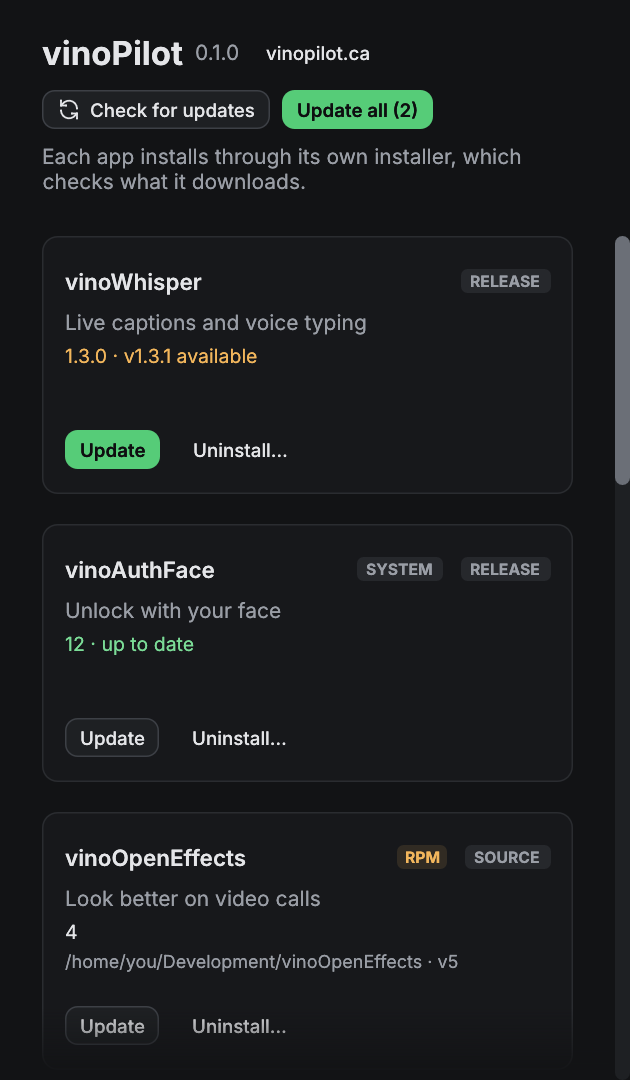
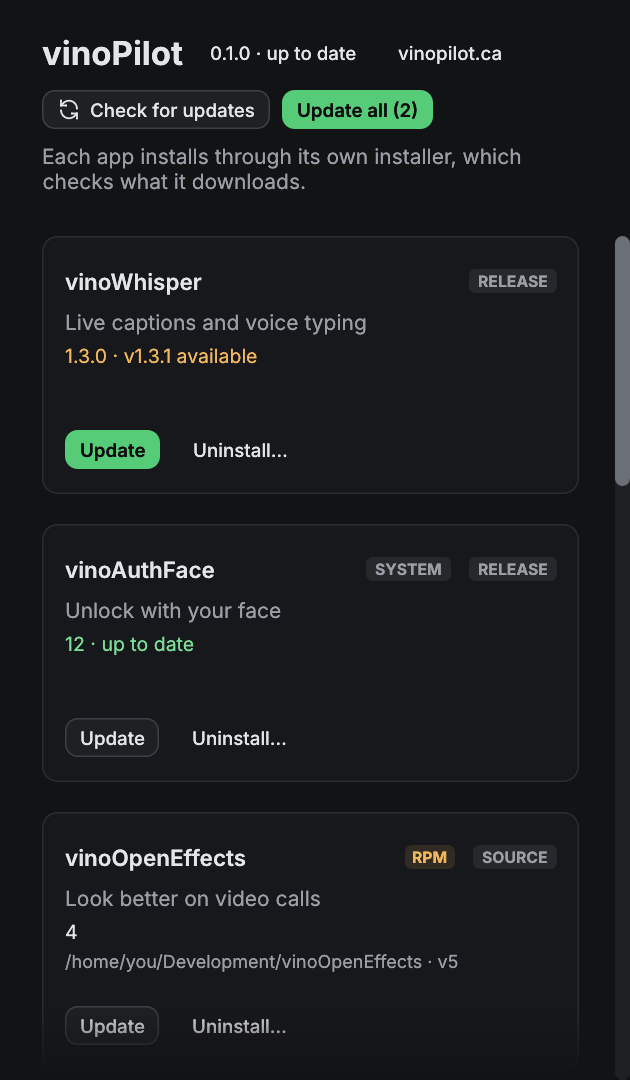
feat(gui): vinoPilot's version is a button that checks, updates and restarts it
The header showed the version as text, and Update vinoPilot only appeared
after Check for updates. Now the version itself checks, then becomes the
update, then Restart into the new window once it's installed.

diff --git a/crates/gui/src/lib.rs b/crates/gui/src/lib.rs
@@ -188,8 +188,7 @@ impl Pilot {
         let narrow = ui.available_width() < 620.0;
         ui.horizontal(|ui| {
             widgets::title(ui, "vinoPilot");
-            widgets::muted(ui, VERSION);
-            self.self_update(ui);
+            self.version_button(ui);
             if ui
                 .add(Button::ghost(vino_ui::family::SITE_LABEL).small())
                 .on_hover_text(vino_ui::family::SITE)
@@ -214,27 +213,77 @@ impl Pilot {
         ui.add_space(6.0);
     }
 
-    /// "Update vinoPilot to vX" once a check finds one, through the same
-    /// steps as the other components, for however vinoPilot is installed.
-    fn self_update(&mut self, ui: &mut egui::Ui) {
-        let Update::Available { to } = self.update(Id::Pilot) else {
-            return;
-        };
-        let Some(installed) = self.local.get(&Id::Pilot).and_then(|l| l.installed.clone()) else {
-            return;
-        };
+    /// The window's version as a button: it checks for a newer vinoPilot,
+    /// then updates it (through the same steps as the cards, for however it's
+    /// installed), then restarts into the new one.
+    fn version_button(&mut self, ui: &mut egui::Ui) {
         let ctx = ui.ctx().clone();
-        let clicked = ui
-            .add_enabled(
-                !self.busy(),
-                Button::primary(format!("Update vinoPilot to {to}")).small(),
-            )
-            .on_hover_text("Restart vinoPilot afterwards to run the new version")
-            .clicked();
-        if clicked {
-            self.queue.clear();
-            self.start(&ctx, Id::Pilot, installed.channel, Action::Update);
+        let busy = self.busy();
+        let installed = self.local.get(&Id::Pilot).and_then(|l| l.installed.clone());
+        if let Some(newer) = self.updated_to(installed.as_ref()) {
+            if ui
+                .add(Button::primary(format!("Restart into {newer}")).small())
+                .on_hover_text(format!(
+                    "vinoPilot {newer} is installed; this window is {VERSION}"
+                ))
+                .clicked()
+            {
+                restart(&ctx);
+            }
+            return;
         }
+        if self.checking.is_some() {
+            ui.add_enabled(
+                false,
+                Button::ghost(format!("{VERSION} · checking…")).small(),
+            );
+            return;
+        }
+        let how = installed.as_ref().map_or_else(
+            || "This window isn't an installed vinoPilot".to_string(),
+            |i| format!("Installed from {}", i.channel.label(Id::Pilot)),
+        );
+        match (self.update(Id::Pilot), installed) {
+            (Update::Available { to }, Some(installed)) => {
+                if ui
+                    .add_enabled(
+                        !busy,
+                        Button::primary(format!("{VERSION} · update to {to}")).small(),
+                    )
+                    .on_hover_text(format!("Update vinoPilot to {to}. {how}."))
+                    .clicked()
+                {
+                    self.queue.clear();
+                    self.start(&ctx, Id::Pilot, installed.channel, Action::Update);
+                }
+            }
+            (update, _) => {
+                let (label, hover) = match update {
+                    Update::UpToDate => (format!("{VERSION} · up to date"), "Check again".into()),
+                    Update::Unknown { reason: Some(why) } => {
+                        (VERSION.to_string(), format!("{why}. Check again"))
+                    }
+                    _ => (VERSION.to_string(), "Check for a newer vinoPilot".into()),
+                };
+                if ui
+                    .add(Button::ghost(label).small())
+                    .on_hover_text(format!("{hover}. {how}."))
+                    .clicked()
+                {
+                    self.check(&ctx);
+                }
+            }
+        }
+    }
+
+    /// The version vinoPilot's own update just installed, if it isn't this
+    /// window's.
+    fn updated_to(&self, installed: Option<&Installed>) -> Option<String> {
+        let job = self.job.as_ref()?;
+        let done =
+            job.id == Id::Pilot && job.action == Action::Update && job.outcome() == Outcome::Done;
+        let version = installed?.version.clone()?;
+        (done && self.scanning.is_none() && version != VERSION).then_some(version)
     }
 
     /// Check for updates and Update all. In a right-to-left layout the
@@ -637,6 +686,14 @@ fn status_line(ui: &mut egui::Ui, id: Id, local: &Local, update: &Update, lookin
     let shown = ui.add(egui::Label::new(RichText::new(text).size(13.0).color(color)).truncate());
     if id == Id::Pilot && version != VERSION {
         shown.on_hover_text(format!("This window is {VERSION}"));
+    }
+}
+
+/// Starts the installed window and closes this one.
+fn restart(ctx: &egui::Context) {
+    match vinopilot_core::command("vinopilot-gui").spawn() {
+        Ok(_) => ctx.send_viewport_cmd(egui::ViewportCommand::Close),
+        Err(e) => eprintln!("vinopilot: couldn't start the new vinopilot-gui: {e}"),
     }
 }
 

diff --git a/crates/gui/tests/self_update.rs b/crates/gui/tests/self_update.rs
@@ -1,0 +1,71 @@
+//! The header's version button: plain until a check, then the update.
+
+use std::collections::HashMap;
+
+use egui_kittest::Harness;
+use egui_kittest::kittest::Queryable;
+use vino_ui::theme;
+use vinopilot_core::Config;
+use vinopilot_core::catalog::{Channel, Id};
+use vinopilot_core::detect::{Installed, Local};
+use vinopilot_core::remote::Latest;
+use vinopilot_gui::{Pilot, VERSION};
+
+fn header(latest: HashMap<Id, Latest>) -> Harness<'static, (Pilot, bool)> {
+    let local = HashMap::from([(
+        Id::Pilot,
+        Local {
+            installed: Some(Installed {
+                channel: Channel::Release,
+                version: Some(VERSION.into()),
+            }),
+            ..Default::default()
+        },
+    )]);
+    let config = Config {
+        source_root: "/nowhere".into(),
+    };
+    let mut h = Harness::builder()
+        .with_size((1000.0, 720.0))
+        .build_ui_state(
+            |ui, (pilot, styled): &mut (Pilot, bool)| {
+                if !*styled {
+                    theme::apply(ui.ctx());
+                    *styled = true;
+                }
+                pilot.ui(ui);
+            },
+            (Pilot::with(config, local, latest), false),
+        );
+    h.run();
+    h
+}
+
+#[test]
+fn the_version_is_a_button_before_any_check() {
+    header(HashMap::new()).get_by_label(VERSION);
+}
+
+#[test]
+fn a_newer_release_turns_it_into_the_update() {
+    let latest = HashMap::from([(
+        Id::Pilot,
+        Latest {
+            release: Some(Ok("v99.0.0".into())),
+            ..Default::default()
+        },
+    )]);
+    header(latest).get_by_label(&format!("{VERSION} · update to v99.0.0"));
+}
+
+#[test]
+fn an_up_to_date_check_says_so() {
+    let latest = HashMap::from([(
+        Id::Pilot,
+        Latest {
+            release: Some(Ok(format!("v{VERSION}"))),
+            ..Default::default()
+        },
+    )]);
+    header(latest).get_by_label(&format!("{VERSION} · up to date"));
+}

diff --git a/README.md b/README.md
@@ -48,7 +48,7 @@ x86_64 only for the release binaries, same as the apps it installs.
 
 ## The window
 
-Nine cards, three by three: the seven apps, ovfetch and vinoUserInterface. Each has its version, how it's installed (the tag top right), and **Update** or **Install**. Before installing, the switch on the card picks the way in. **Update all** appears once a check finds something. vinoPilot's own version sits next to its name in the header, with **Update vinoPilot to vX** beside it when there's a newer one. The installer's output streams into a panel underneath, with **Stop**. vinoAuthFace installs system-wide, so its actions go through `pkexec` and ask for your password.
+Nine cards, three by three: the seven apps, ovfetch and vinoUserInterface. Each has its version, how it's installed (the tag top right), and **Update** or **Install**. Before installing, the switch on the card picks the way in. **Update all** appears once a check finds something. vinoPilot's own version is a button next to its name in the header: it checks for a newer vinoPilot, turns into **update to vX** when there is one, then **Restart into vX** once that's installed. The installer's output streams into a panel underneath, with **Stop**. vinoAuthFace installs system-wide, so its actions go through `pkexec` and ask for your password.
 
 It follows the desktop's light or dark setting, and drops to one column when three don't fit, like when snapped to half a laptop screen:
 
